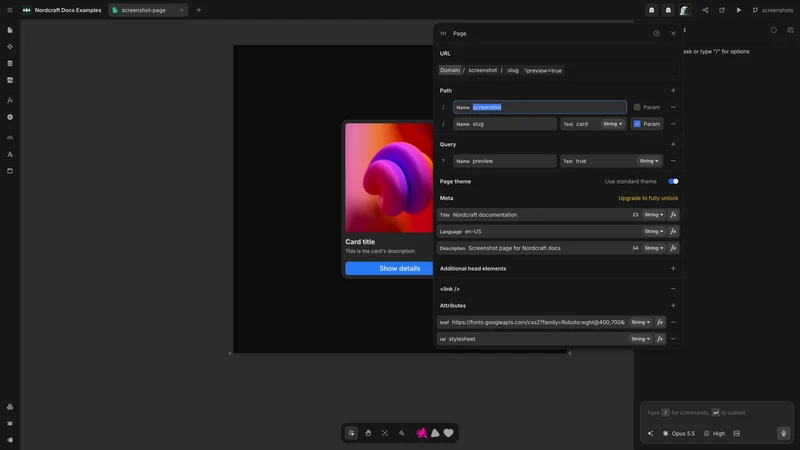
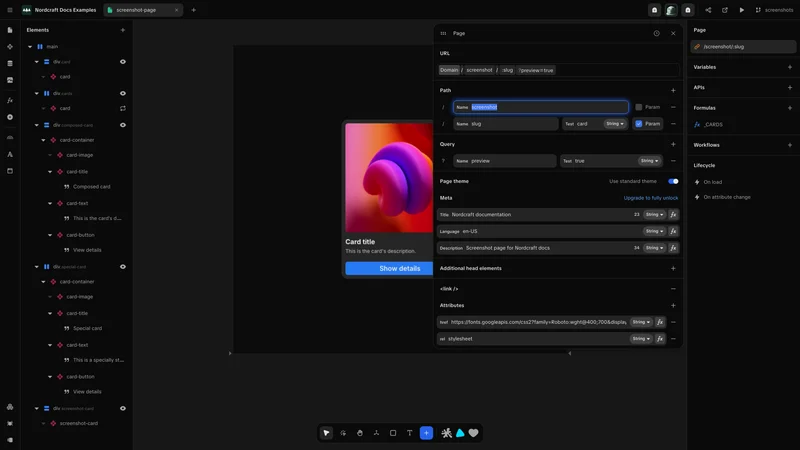
page-configuration screenshot

diff --git a/docs/pages/page-configuration/page-configuration.screenshot.ts b/docs/pages/page-configuration/page-configuration.screenshot.ts
@@ -2,7 +2,7 @@ import { defineScreenshot } from '@/scripts/capture-screenshots'
 import type { Page } from 'playwright'
 
 export default defineScreenshot({
-  path: '/projects/docs_examples/branches/screenshots/components/screenshot-page?canvas-width=800&canvas-height=800&selection=route&rightpanel=style',
+  path: '/projects/docs_examples/branches/screenshots/components/screenshot-page?mode=design&canvas-tool=select&canvas-width=800&selection=route&rightpanel=style',
   description: 'Page configuration panel',
   setup: async (page: Page) => {
     await page.waitForTimeout(500)
